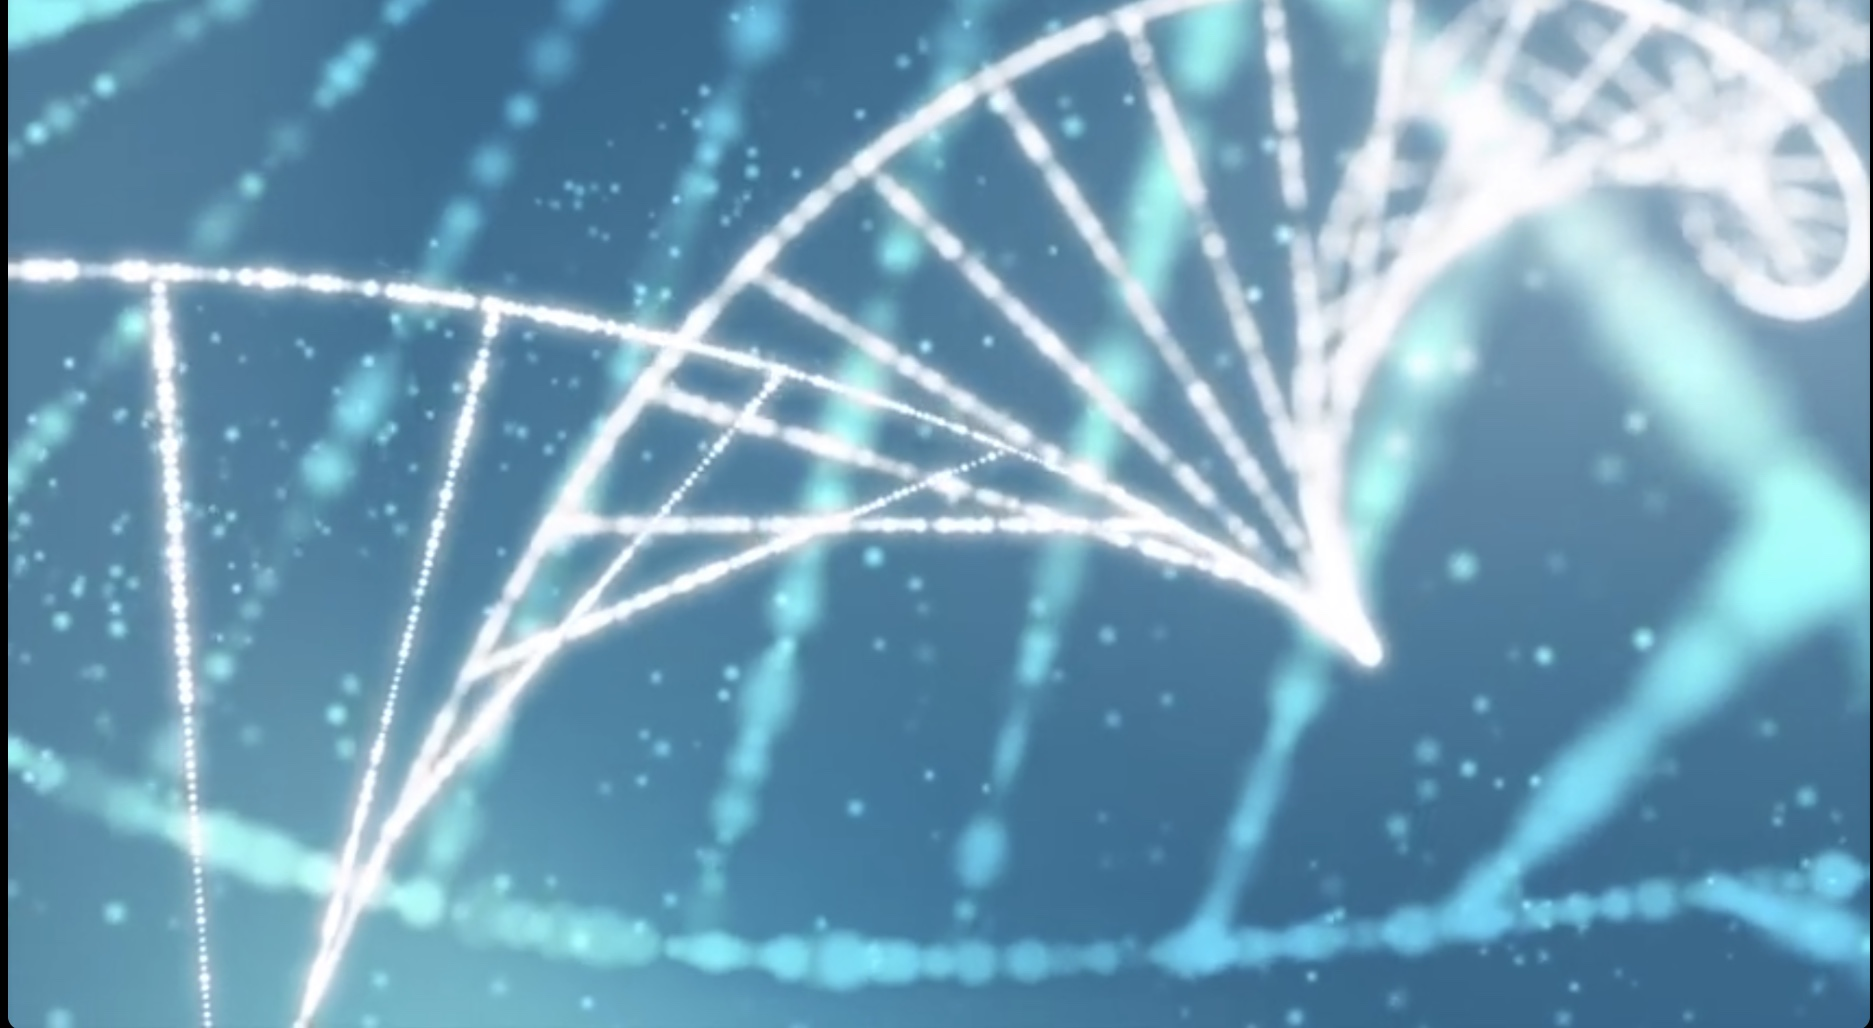
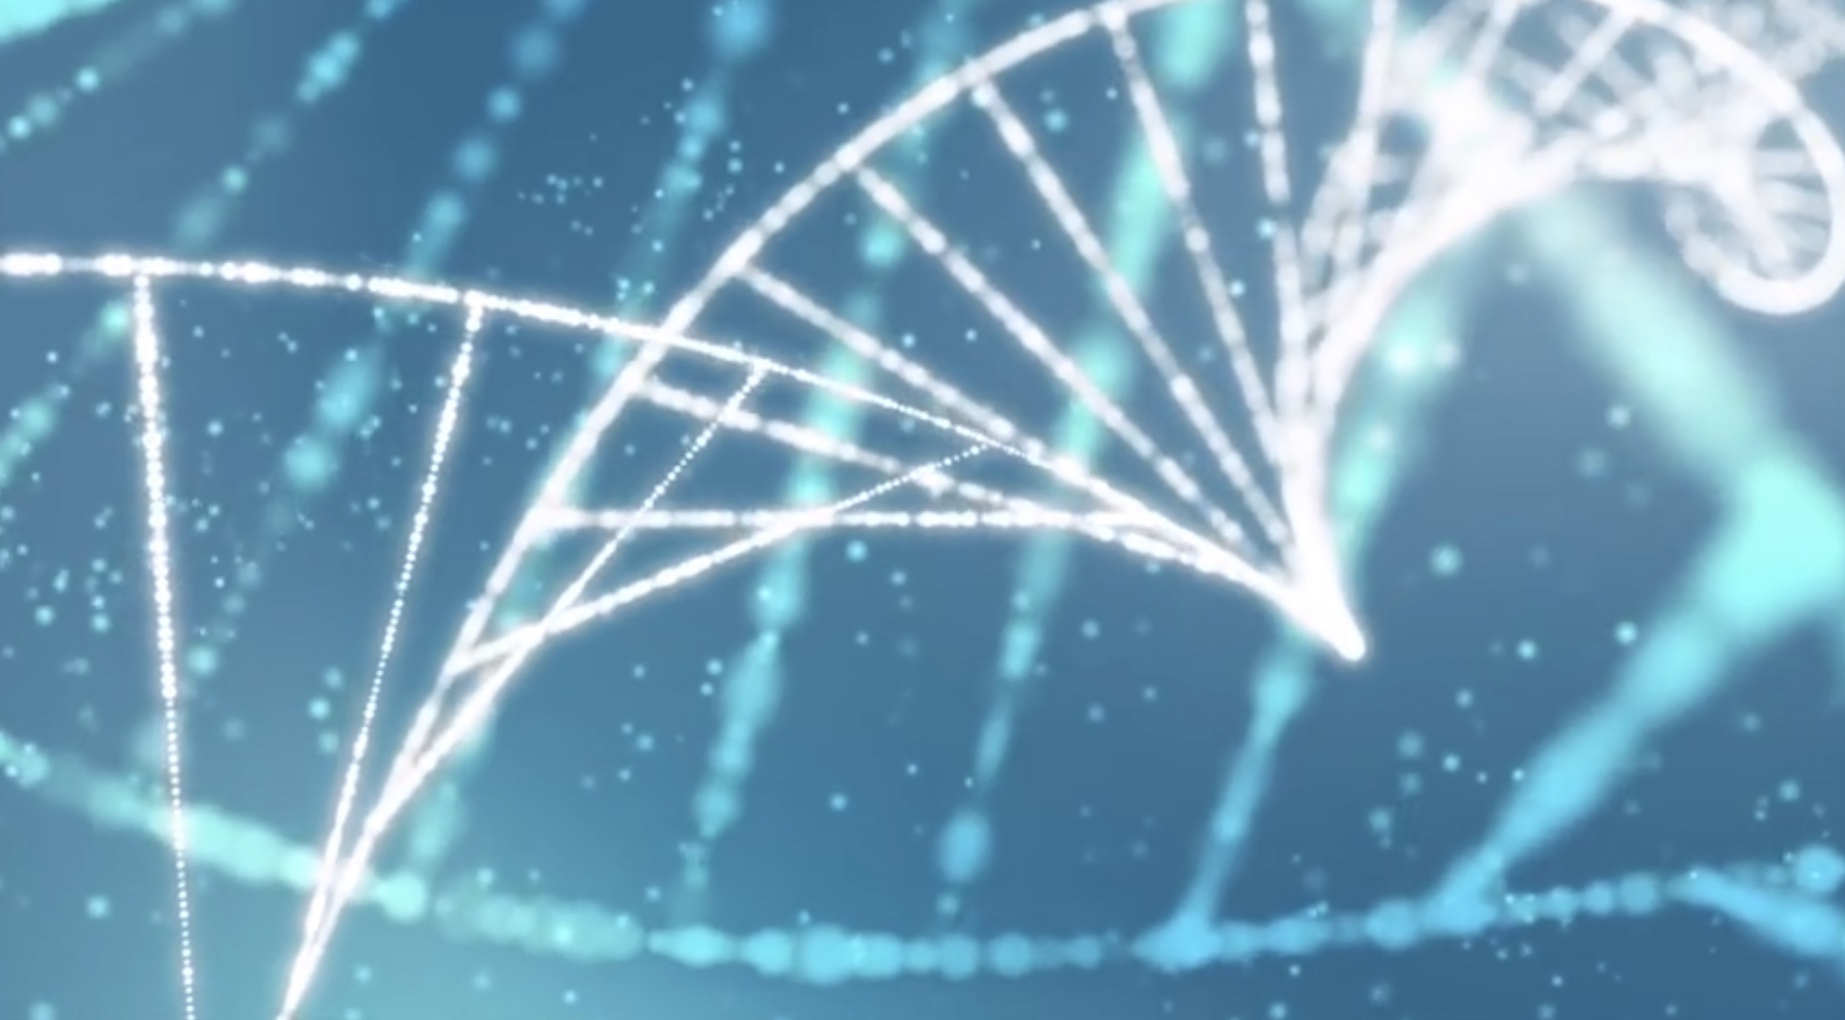
Card image displayed

diff --git a/src/pages/Home.js b/src/pages/Home.js
@@ -7,6 +7,9 @@ import MainFeaturedCard from '../components/cards/MainFeaturedCard';
 import FeaturedCard from '../components/cards/FeaturedCard';
 import InfoCard from '../components/cards/InfoCard';
 import { Row } from 'react-bootstrap';
+import card from '../images/featured_imgs/featuredImg-7.jpg';
+import card2 from '../images/featured_imgs/featuredImg-8.jpg';
+import card3 from '../images/featured_imgs/featuredImg-10.jpg';
 
 // const useStyles = makeStyles(theme => ({
 // 	mainGrid: {
@@ -18,7 +21,7 @@ const mainFeaturedCard = {
 	title: 'Computational and Informatics Resources for Glycoscience',
 	description:
 		'GlyGen is a data integration and dissemination project for carbohydrate and glycoconjugate related data. GlyGen retrieves information from multiple international data sources and integrates and harmonizes this data. This web portal allows exploring this data and performing unique searches that cannot be executed in any of the integrated databases alone.',
-	image: 'https://source.unsplash.com/random',
+	image: card3,
 	imgText: 'main image description',
 	linkText: 'Learn More…'
 };
@@ -28,14 +31,14 @@ const featuredCards = [
 		title: 'Glycan',
 		description:
 			'Search for glycan structures based on their chemical and structural properties.',
-		image: 'https://source.unsplash.com/random',
+		image: card,
 		imageText: 'Glycan'
 	},
 	{
 		title: 'Protein',
 		description:
 			'Search for proteins based on their sequences, accessions, and annotations.',
-		image: 'https://source.unsplash.com/random',
+		image: card2,
 		imageText: 'Protein'
 	},
 	{

diff --git a/src/components/cards/MainFeaturedCard.js b/src/components/cards/MainFeaturedCard.js
@@ -12,7 +12,7 @@ const useStyles = makeStyles(theme => ({
 		backgroundColor: theme.palette.grey[800],
 		color: theme.palette.common.white,
 		marginBottom: theme.spacing(4),
-		backgroundImage: 'url(https://source.unsplash.com/random)',
+		// backgroundImage: 'url(https://source.unsplash.com/random)',
 		backgroundSize: 'cover',
 		backgroundRepeat: 'no-repeat',
 		backgroundPosition: 'center'

diff --git a/src/components/cards/FeaturedCard.js b/src/components/cards/FeaturedCard.js
@@ -40,9 +40,10 @@ export default function FeaturedCard(props) {
 				<Card className={classes.card}>
 					<Hidden xsDown>
 						<CardMedia
+							component="img"
 							className={classes.cardMedia}
 							image={post.image}
-							title={post.imageTitle}
+							title={post.imageText}
 						/>
 					</Hidden>
 					<div className={classes.cardDetails}>

diff --git a/src/components/layout/Footer.js b/src/components/layout/Footer.js
@@ -10,7 +10,7 @@ import Box from '@material-ui/core/Box';
 import '../../App.css';
 
 const Footer = () => (
-	<React.Fragment className='fixed-bottom'>
+	<React.Fragment>
 		<Navbar sticky='bottom' className='gg-bg-blue text-center footer'>
 			<Container
 				maxWidth='xl'
